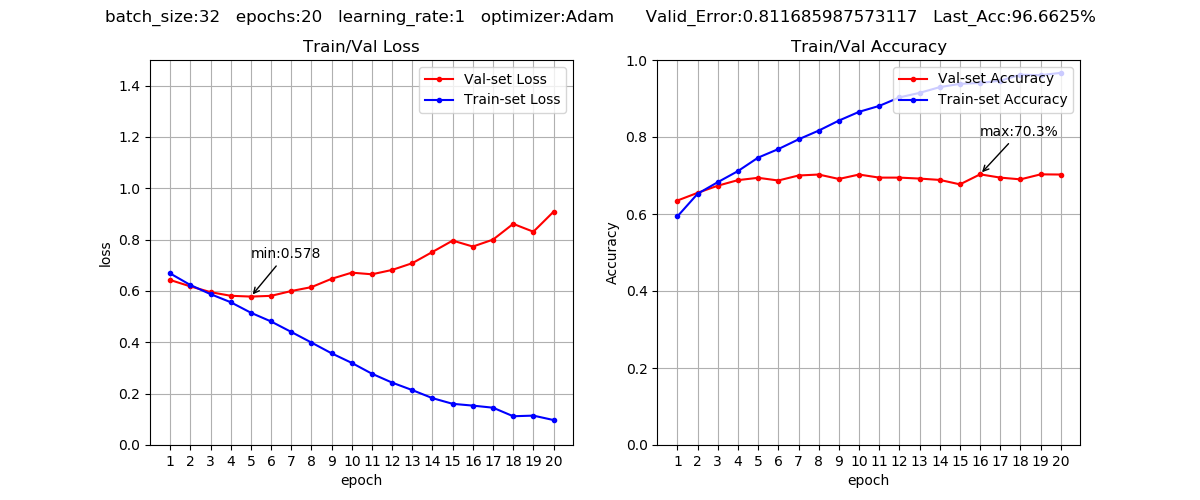
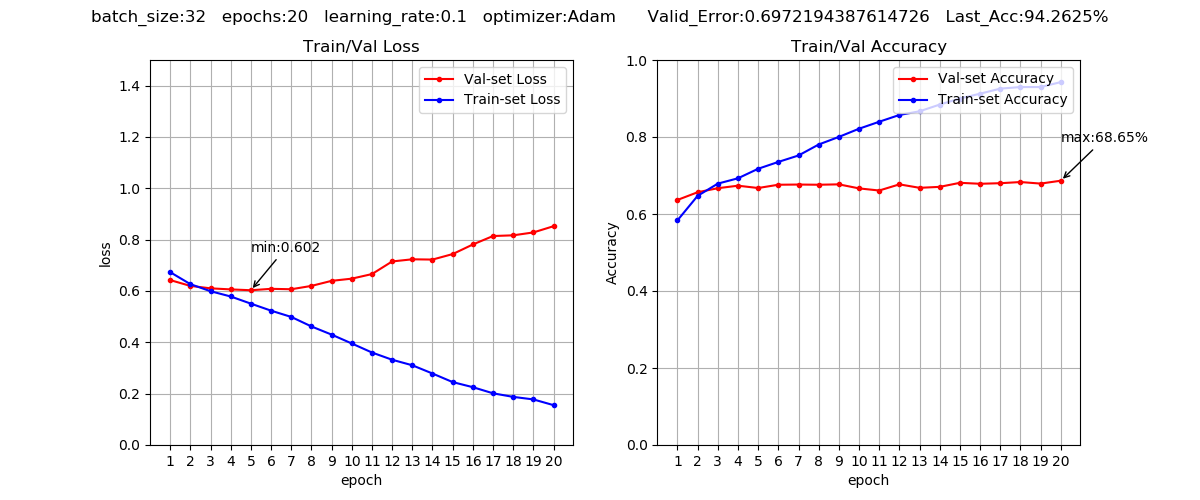
Last Accuracy: 0.942625     Valid error: 0.6972194387614726

diff --git a/main.py b/main.py
@@ -86,11 +86,13 @@ class ModelMgr():
 
         # rf = RandomForestRegressor()
         # rf = rf.fit(train_x, train_y)
+
         #https://tykimos.github.io/2017/07/09/Early_Stopping/
         from keras.callbacks import EarlyStopping
 
         early_stopping = EarlyStopping(monitor='val_loss',verbose=2, patience =5)
-
+        # rf = RandomForestRegressor()
+        # rf.fit(train_x, train_y)
         history = model.fit(np.array(self.x_train), np.array(self.y_train),
                             batch_size=hp['batch_size'],
                             epochs=hp['epochs'],
@@ -121,7 +123,7 @@ class ModelMgr():
         hyper['batch_size'] = 32  # 배치 사이즈
         hyper['epochs'] = 20  # epochs은 최대 20 설정 !!
         # hyper['learning_rate'] = 0.01  # 학습률
-        hyper['learning_rate'] = 1  # 학습률
+        hyper['learning_rate'] = 0.1  # 학습률
         # 최적화 알고리즘 선택 [sgd, rmsprop, adagrad, adam 등]
         # hyper['optimizer'] = optimizers.sgd(lr=hyper['learning_rate'])  # default: SGD
         # hyper['optimizer'] = optimizers.rmsprop(lr=0.0001, decay=1e-6)
@@ -139,11 +141,10 @@ class ModelMgr():
         # from sklearn.model_selection import StratifiedKFold
         # kfold = StratifiedKFold(n_splits=10, shuffle=True, random_state=seed)
         model = Sequential()
-        nDropout = 0.25
-        model.add(Conv2D(16, (2, 2), padding='same', input_shape=self.x_train.shape[1:], activation='relu'))
-        # model.add(MaxPooling2D(pool_size=(2, 2), strides=(2, 2)))
-
-        model.add(Conv2D(24, (2, 2), activation='relu'))
+        nDropout = 0.2
+        model.add(Conv2D(8, (2, 2), padding='same', input_shape=self.x_train.shape[1:], activation='relu'))
+        #model.add(MaxPooling2D(pool_size=(2, 2), strides=(2, 2)))
+        model.add(Conv2D(8, (2, 2), activation='relu'))
         model.add(MaxPooling2D(pool_size=(2, 2), strides=(2, 2)))
         model.add(Dropout(nDropout))
 
